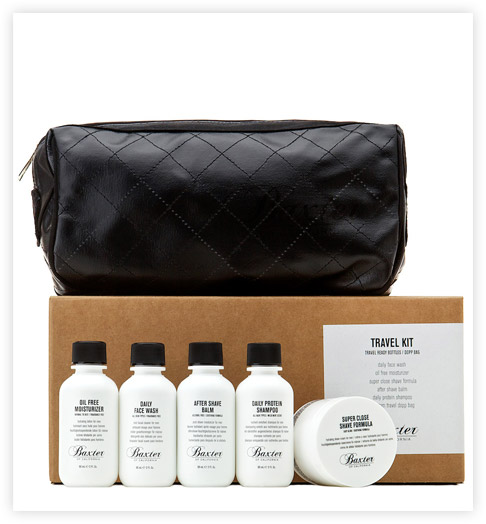
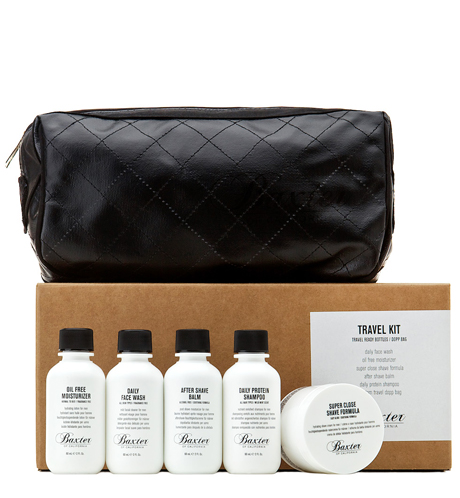
Исправил замечания наставника

diff --git a/item.html b/item.html
@@ -55,12 +55,12 @@
           <div class="gallery">
             <!-- TODO: Картинки в png с тенью или нужно было в jpg без тени? -->
             <figure class="gallery-image">
-              <img src="img/item-bc-travel-kit-big.png" width="486" height="524" alt="Фотогалерея">
+              <img src="img/item-bc-travel-kit-big.jpg" width="486" height="524" alt="Фотогалерея">
             </figure>
             <figure class="gallery-paginator">
-              <a class="btn gallery-paginator" href="#"><img src="img/item-bc-travel-kit-small1.png"  width="166" height="175" alt=""></a>
-              <a class="btn gallery-paginator" href="#"><img src="img/item-bc-travel-kit-small2.png"  width="166" height="175" alt=""></a>
-              <a class="btn gallery-paginator" href="#"><img src="img/item-bc-travel-kit-small3.png"  width="166" height="175" alt=""></a>
+              <a class="btn gallery-paginator" href="#"><img src="img/item-bc-travel-kit-small1.jpg"  width="166" height="175" alt=""></a>
+              <a class="btn gallery-paginator" href="#"><img src="img/item-bc-travel-kit-small2.jpg"  width="166" height="175" alt=""></a>
+              <a class="btn gallery-paginator" href="#"><img src="img/item-bc-travel-kit-small3.jpg"  width="166" height="175" alt=""></a>
             </figure>
           </div>
         </div>
